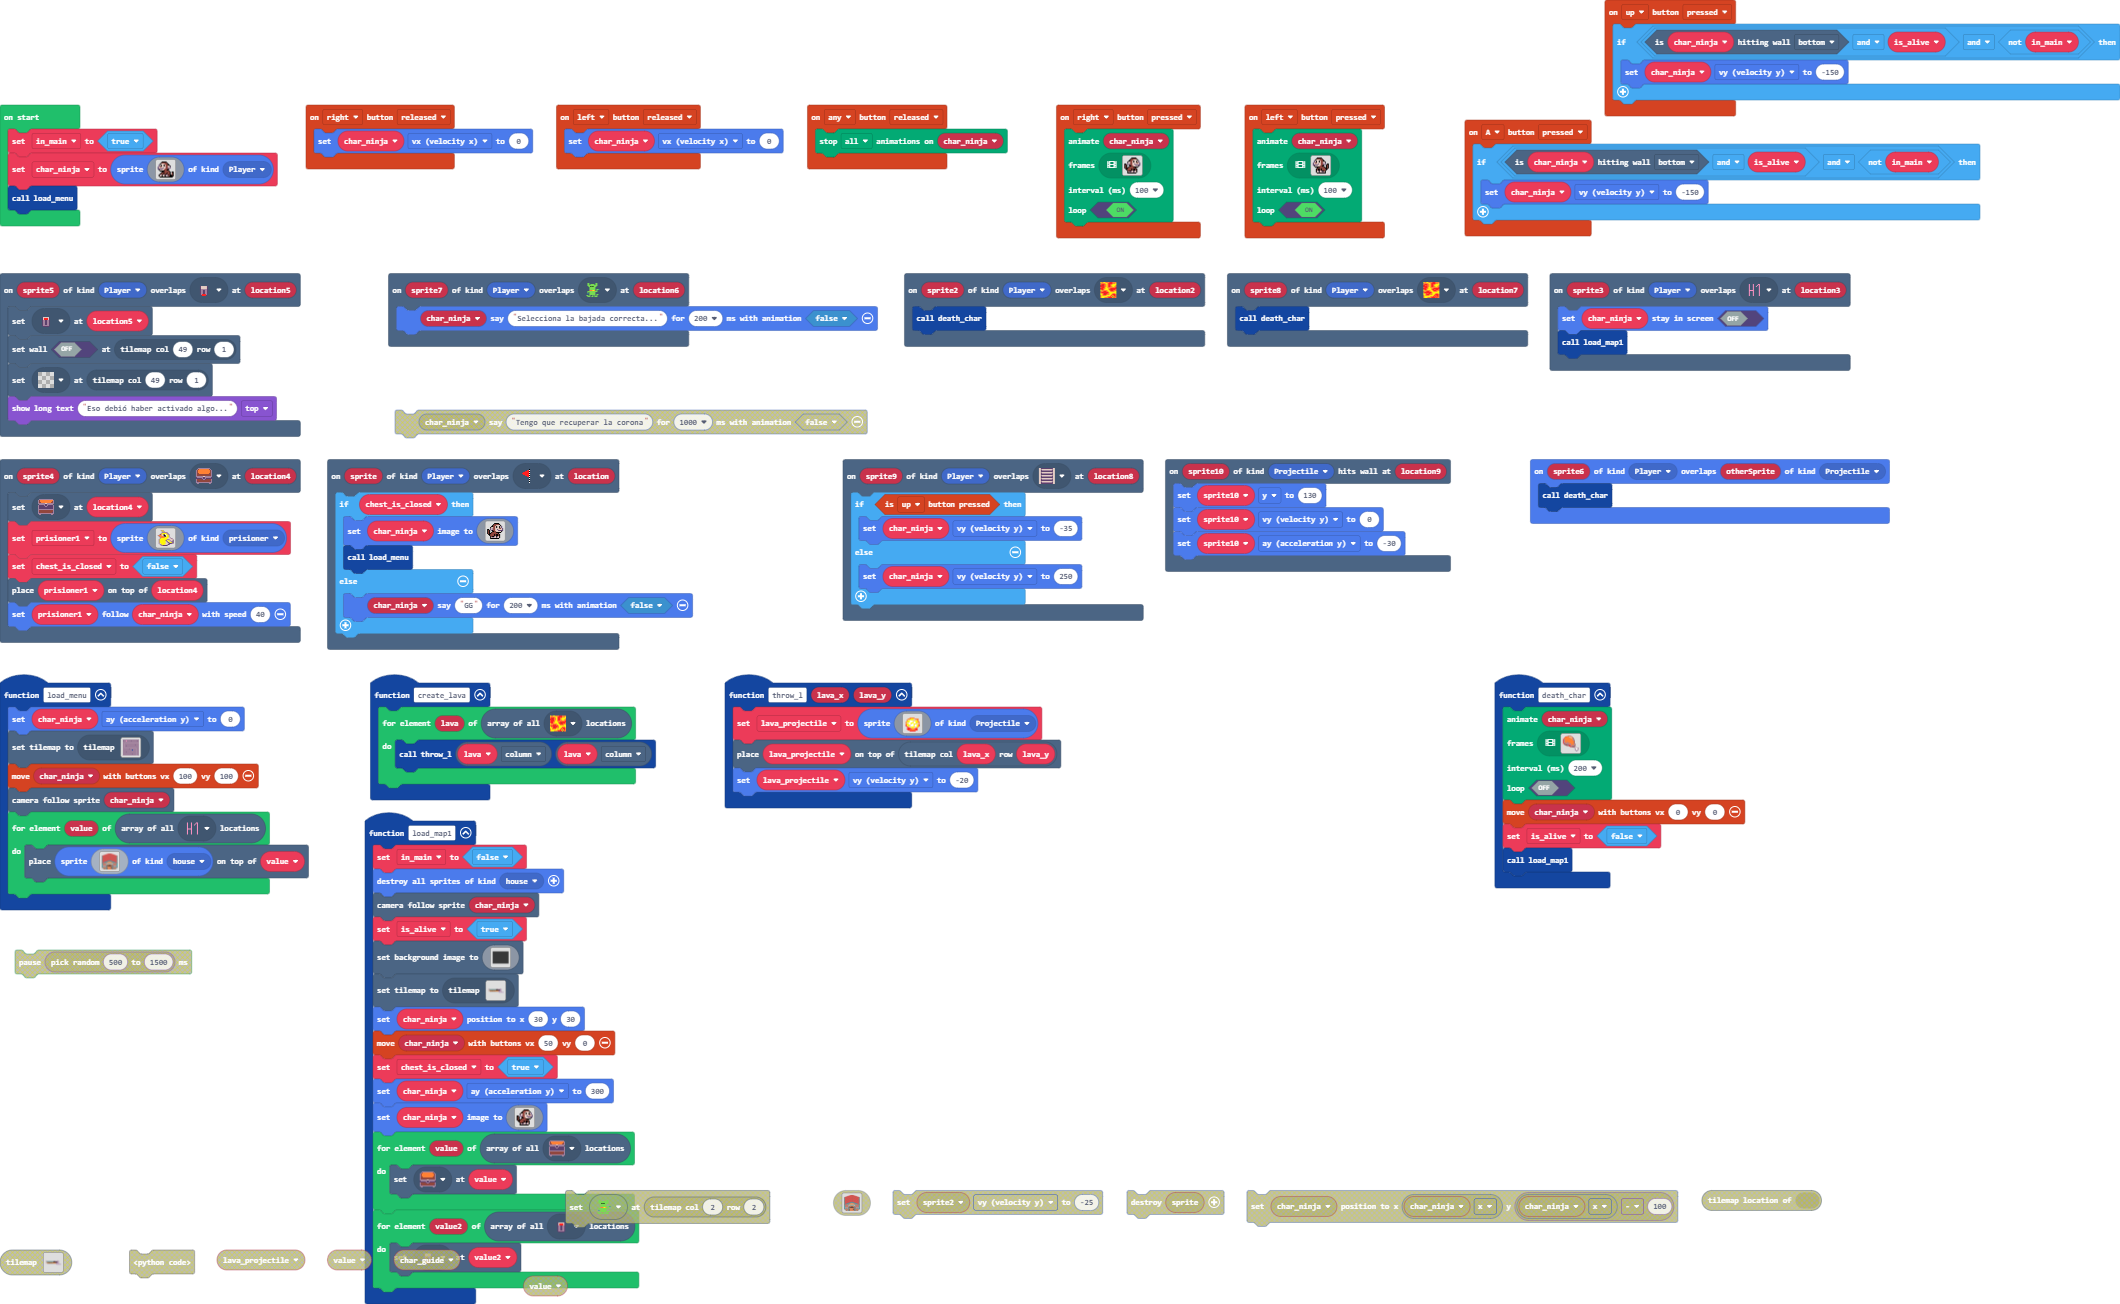
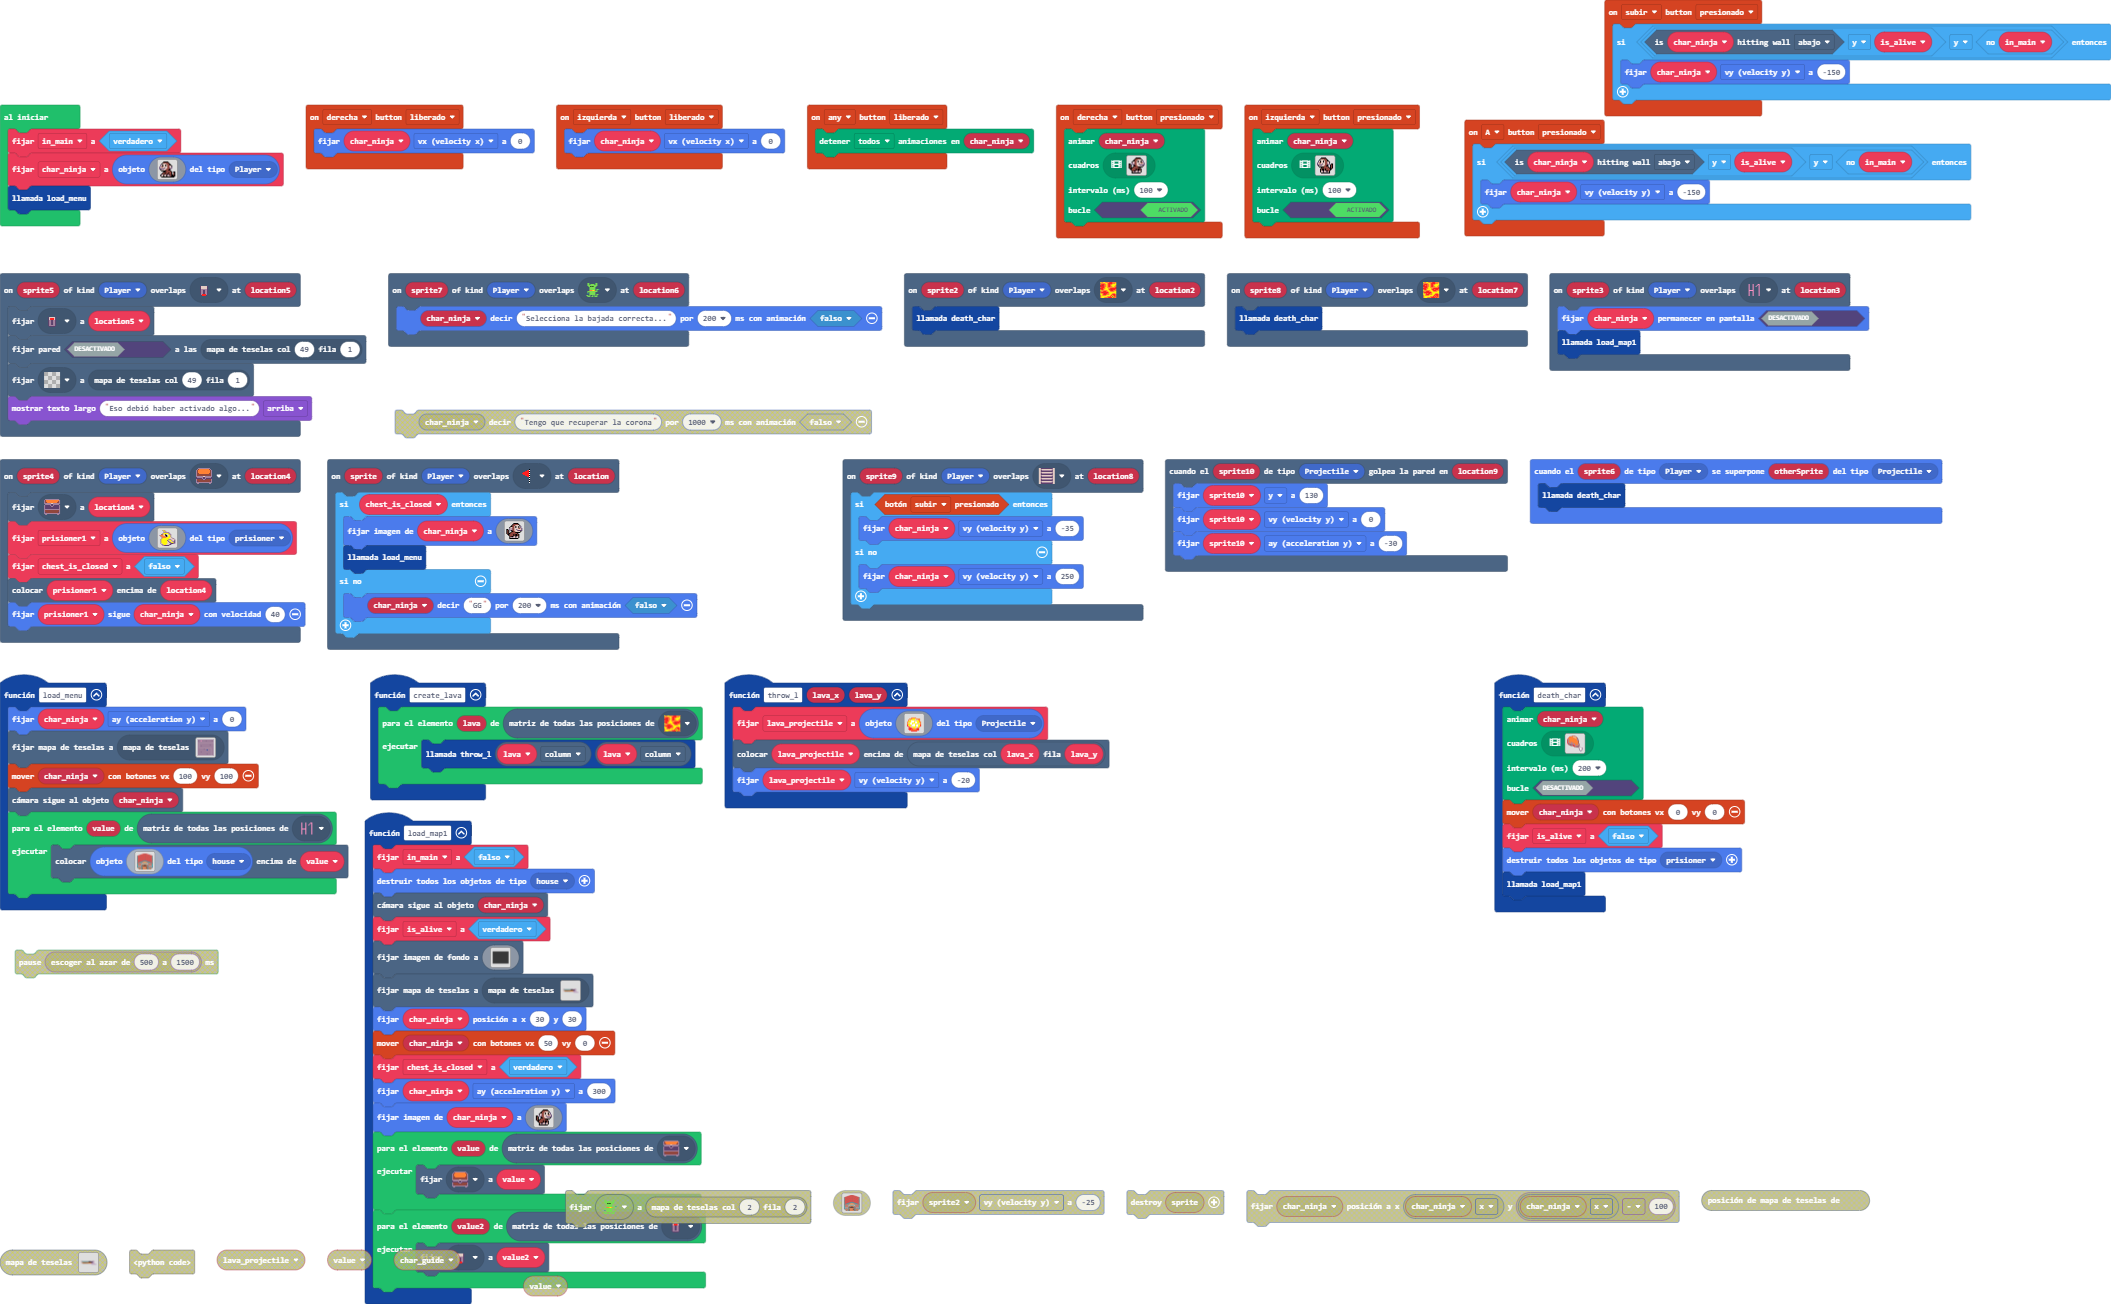
prisioner_destroy

diff --git a/main.ts b/main.ts
@@ -3,6 +3,12 @@ namespace SpriteKind {
     export const prisioner = SpriteKind.create()
     export const house = SpriteKind.create()
 }
+controller.right.onEvent(ControllerButtonEvent.Released, function () {
+    char_ninja.vx = 0
+})
+controller.left.onEvent(ControllerButtonEvent.Released, function () {
+    char_ninja.vx = 0
+})
 function death_char () {
     animation.runImageAnimation(
     char_ninja,
@@ -45,13 +51,9 @@ function death_char () {
     )
     controller.moveSprite(char_ninja, 0, 0)
     is_alive = false
+    sprites.destroyAllSpritesOfKind(SpriteKind.prisioner)
     load_map1()
 }
-controller.up.onEvent(ControllerButtonEvent.Pressed, function () {
-    if (char_ninja.isHittingTile(CollisionDirection.Bottom) && is_alive && !(in_main)) {
-        char_ninja.vy = -150
-    }
-})
 sprites.onOverlap(SpriteKind.Player, SpriteKind.Projectile, function (sprite6, otherSprite) {
     death_char()
 })
@@ -87,11 +89,6 @@ scene.onOverlapTile(SpriteKind.Player, assets.tile`ladder`, function (sprite9, l
         char_ninja.vy = 250
     }
 })
-controller.A.onEvent(ControllerButtonEvent.Pressed, function () {
-    if (char_ninja.isHittingTile(CollisionDirection.Bottom) && is_alive && !(in_main)) {
-        char_ninja.vy = -150
-    }
-})
 scene.onOverlapTile(SpriteKind.Player, assets.tile`switchDown`, function (sprite5, location5) {
     tiles.setTileAt(location5, assets.tile`switchUp0`)
     tiles.setWallAt(tiles.getTileLocation(49, 1), false)
@@ -100,108 +97,6 @@ scene.onOverlapTile(SpriteKind.Player, assets.tile`switchDown`, function (sprite
 })
 controller.anyButton.onEvent(ControllerButtonEvent.Released, function () {
     animation.stopAnimation(animation.AnimationTypes.All, char_ninja)
-})
-controller.left.onEvent(ControllerButtonEvent.Pressed, function () {
-    animation.runImageAnimation(
-    char_ninja,
-    [img`
-        . . . . f f f f f . . . . . . . 
-        . . . f e e e e e f . . . . . . 
-        . . f d d d d e e e f . . . . . 
-        . c d f d d f d e e f f . . . . 
-        . c d f d d f d e e d d f . . . 
-        c d e e d d d d e e b d c . . . 
-        c d d d d c d d e e b d c . f f 
-        c c c c c d d d e e f c . f e f 
-        . f d d d d d e e f f . . f e f 
-        . . f f f f f e e e e f . f e f 
-        . . . . f e e e e e e e f f e f 
-        . . . f e f f e f e e e e f f . 
-        . . . f e f f e f e e e e f . . 
-        . . . f d b f d b f f e f . . . 
-        . . . f d d c d d b b d f . . . 
-        . . . . f f f f f f f f f . . . 
-        `,img`
-        . . . . f f f f f . . . . . . . 
-        . . . f e e e e e f . . . . . . 
-        . . f d d d d e e e f . . . . . 
-        . c d f d d f d e e f . . . . . 
-        . c d f d d f d e e f f . . . . 
-        c d e e d d d d e e d d f . . . 
-        c d d d d c d d e e b d c . . . 
-        c c c c c d d e e e b d c . f f 
-        . f d d d d e e e f f c . f e f 
-        . f f f f f f e e e e f . f e f 
-        . f f f f e e e e e e e f f e f 
-        f d d f d d f e f e e e e f f . 
-        f d b f d b f e f e e e e f . . 
-        f f f f f f f f f f f f e f . . 
-        . . . . . . . . . f c d d f . . 
-        . . . . . . . . . . f f f f . . 
-        `,img`
-        . . . . f f f f f . . . . . . . 
-        . . . f e e e e e f . . . . . . 
-        . . f d d d d e e e f f . . . . 
-        . c d d d d d d e e d d f . . . 
-        . c d f d d f d e e b d c . . . 
-        c d d f d d f d e e b d c . f f 
-        c d e e d d d d e e f c . f e f 
-        c d d d d c d e e e f . . f e f 
-        . f c c c d e e e f f . . f e f 
-        . . f f f f f e e e e f . f e f 
-        . . . . f e e e e e e e f f f . 
-        . . f f e f e e f e e e e f . . 
-        . f e f f e e f f f e e e f . . 
-        f d d b d d c f f f f f f b f . 
-        f d d c d d d f . . f c d d f . 
-        . f f f f f f f . . . f f f . . 
-        `,img`
-        . . . . f f f f f . . . . . . . 
-        . . . f e e e e e f f f . . . . 
-        . . f d d d e e e e d d f . . . 
-        . c d d d d d e e e b d c . . . 
-        . c d d d d d d e e b d c . . . 
-        c d d f d d f d e e f c . f f . 
-        c d d f d d f d e e f . . f e f 
-        c d e e d d d d e e f . . f e f 
-        . f d d d c d e e f f . . f e f 
-        . . f f f d e e e e e f . f e f 
-        . . . . f e e e e e e e f f f . 
-        . . . . f f e e e e e b f f . . 
-        . . . f e f f e e c d d f f . . 
-        . . f d d b d d c f f f . . . . 
-        . . f d d c d d d f f . . . . . 
-        . . . f f f f f f f . . . . . . 
-        `,img`
-        . . . . f f f f f . . . . . . . 
-        . . . f e e e e e f . . . . . . 
-        . . f d d d d e e e f . . . . . 
-        . c d f d d f d e e f f . . . . 
-        . c d f d d f d e e d d f . . . 
-        c d e e d d d d e e b d c . . . 
-        c d d d d c d d e e b d c . . . 
-        c c c c c d d e e e f c . . . . 
-        . f d d d d e e e f f . . . . . 
-        . . f f f f f e e e e f . . . . 
-        . . . . f f e e e e e e f . f f 
-        . . . f e e f e e f e e f . e f 
-        . . f e e f e e f e e e f . e f 
-        . f b d f d b f b b f e f f e f 
-        . f d d f d d f d d b e f f f f 
-        . . f f f f f f f f f f f f f . 
-        `],
-    100,
-    true
-    )
-})
-controller.right.onEvent(ControllerButtonEvent.Released, function () {
-    char_ninja.vx = 0
-})
-controller.left.onEvent(ControllerButtonEvent.Released, function () {
-    char_ninja.vx = 0
-})
-scene.onOverlapTile(SpriteKind.Player, sprites.dungeon.hazardLava1, function (sprite8, location7) {
-    death_char()
 })
 controller.right.onEvent(ControllerButtonEvent.Pressed, function () {
     animation.runImageAnimation(
@@ -296,6 +191,107 @@ controller.right.onEvent(ControllerButtonEvent.Pressed, function () {
     true
     )
 })
+controller.left.onEvent(ControllerButtonEvent.Pressed, function () {
+    animation.runImageAnimation(
+    char_ninja,
+    [img`
+        . . . . f f f f f . . . . . . . 
+        . . . f e e e e e f . . . . . . 
+        . . f d d d d e e e f . . . . . 
+        . c d f d d f d e e f f . . . . 
+        . c d f d d f d e e d d f . . . 
+        c d e e d d d d e e b d c . . . 
+        c d d d d c d d e e b d c . f f 
+        c c c c c d d d e e f c . f e f 
+        . f d d d d d e e f f . . f e f 
+        . . f f f f f e e e e f . f e f 
+        . . . . f e e e e e e e f f e f 
+        . . . f e f f e f e e e e f f . 
+        . . . f e f f e f e e e e f . . 
+        . . . f d b f d b f f e f . . . 
+        . . . f d d c d d b b d f . . . 
+        . . . . f f f f f f f f f . . . 
+        `,img`
+        . . . . f f f f f . . . . . . . 
+        . . . f e e e e e f . . . . . . 
+        . . f d d d d e e e f . . . . . 
+        . c d f d d f d e e f . . . . . 
+        . c d f d d f d e e f f . . . . 
+        c d e e d d d d e e d d f . . . 
+        c d d d d c d d e e b d c . . . 
+        c c c c c d d e e e b d c . f f 
+        . f d d d d e e e f f c . f e f 
+        . f f f f f f e e e e f . f e f 
+        . f f f f e e e e e e e f f e f 
+        f d d f d d f e f e e e e f f . 
+        f d b f d b f e f e e e e f . . 
+        f f f f f f f f f f f f e f . . 
+        . . . . . . . . . f c d d f . . 
+        . . . . . . . . . . f f f f . . 
+        `,img`
+        . . . . f f f f f . . . . . . . 
+        . . . f e e e e e f . . . . . . 
+        . . f d d d d e e e f f . . . . 
+        . c d d d d d d e e d d f . . . 
+        . c d f d d f d e e b d c . . . 
+        c d d f d d f d e e b d c . f f 
+        c d e e d d d d e e f c . f e f 
+        c d d d d c d e e e f . . f e f 
+        . f c c c d e e e f f . . f e f 
+        . . f f f f f e e e e f . f e f 
+        . . . . f e e e e e e e f f f . 
+        . . f f e f e e f e e e e f . . 
+        . f e f f e e f f f e e e f . . 
+        f d d b d d c f f f f f f b f . 
+        f d d c d d d f . . f c d d f . 
+        . f f f f f f f . . . f f f . . 
+        `,img`
+        . . . . f f f f f . . . . . . . 
+        . . . f e e e e e f f f . . . . 
+        . . f d d d e e e e d d f . . . 
+        . c d d d d d e e e b d c . . . 
+        . c d d d d d d e e b d c . . . 
+        c d d f d d f d e e f c . f f . 
+        c d d f d d f d e e f . . f e f 
+        c d e e d d d d e e f . . f e f 
+        . f d d d c d e e f f . . f e f 
+        . . f f f d e e e e e f . f e f 
+        . . . . f e e e e e e e f f f . 
+        . . . . f f e e e e e b f f . . 
+        . . . f e f f e e c d d f f . . 
+        . . f d d b d d c f f f . . . . 
+        . . f d d c d d d f f . . . . . 
+        . . . f f f f f f f . . . . . . 
+        `,img`
+        . . . . f f f f f . . . . . . . 
+        . . . f e e e e e f . . . . . . 
+        . . f d d d d e e e f . . . . . 
+        . c d f d d f d e e f f . . . . 
+        . c d f d d f d e e d d f . . . 
+        c d e e d d d d e e b d c . . . 
+        c d d d d c d d e e b d c . . . 
+        c c c c c d d e e e f c . . . . 
+        . f d d d d e e e f f . . . . . 
+        . . f f f f f e e e e f . . . . 
+        . . . . f f e e e e e e f . f f 
+        . . . f e e f e e f e e f . e f 
+        . . f e e f e e f e e e f . e f 
+        . f b d f d b f b b f e f f e f 
+        . f d d f d d f d d b e f f f f 
+        . . f f f f f f f f f f f f f . 
+        `],
+    100,
+    true
+    )
+})
+scene.onOverlapTile(SpriteKind.Player, sprites.dungeon.hazardLava1, function (sprite8, location7) {
+    death_char()
+})
+controller.A.onEvent(ControllerButtonEvent.Pressed, function () {
+    if (char_ninja.isHittingTile(CollisionDirection.Bottom) && is_alive && !(in_main)) {
+        char_ninja.vy = -150
+    }
+})
 function load_map1 () {
     in_main = false
     sprites.destroyAllSpritesOfKind(SpriteKind.house)
@@ -351,6 +347,11 @@ function load_menu () {
         tiles.placeOnTile(sprites.create(assets.image`house1`, SpriteKind.house), value)
     }
 }
+controller.up.onEvent(ControllerButtonEvent.Pressed, function () {
+    if (char_ninja.isHittingTile(CollisionDirection.Bottom) && is_alive && !(in_main)) {
+        char_ninja.vy = -150
+    }
+})
 scene.onOverlapTile(SpriteKind.Player, assets.tile`lava_enemy`, function (sprite2, location2) {
     death_char()
 })

diff --git a/tilemap.g.ts b/tilemap.g.ts
@@ -1,4 +1,4 @@
-// Auto-generated code. Do not edit.
+// Código generado automáticamente. No editar.
 namespace myTiles {
     //% fixedInstance jres blockIdentity=images._tile
     export const transparency16 = image.ofBuffer(hex``);
@@ -277,7 +277,7 @@ namespace myTiles {
             case "nivel13":
[1 lines of base64/hex data omitted]
 . . 2 2 2 . . . . . . . . . . . 
-. . 2 2 2 . . . . . . . . . . . 
+. . 2 . 2 . . . . . . . . . . . 
 . . 2 . 2 . . . . . . . . . . . 
 . . . . . . . . . . . . . . . . 
 . . . . . . . . . . . . . . . . 
@@ -286,7 +286,7 @@ namespace myTiles {
 . . . . . . . . . . . . . . . . 
 . . . . . . . . . . . . . . . . 
 . . . . . . . . 2 . 2 . . . . . 
-. . . . . . . . 2 2 2 . . . . . 
+. . . . . . . . 2 . 2 . . . . . 
 . . . . . . . . 2 2 2 . . . . . 
 . . . . . . . . . . . . . . . . 
 . . . . . . . . . . . . . . . . 
@@ -327,4 +327,4 @@ namespace myTiles {
     })
 
 }
-// Auto-generated code. Do not edit.
+// Código generado automáticamente. No editar.

diff --git a/images.g.ts b/images.g.ts
@@ -1,4 +1,4 @@
-// Auto-generated code. Do not edit.
+// Código generado automáticamente. No editar.
 namespace myImages {
 
     helpers._registerFactory("image", function(name: string) {
@@ -408,4 +408,4 @@ dccaa8aa8aa8888aa8aa8a8aa8a8aa8aa8888aa8aa8aaccd
     })
 
 }
-// Auto-generated code. Do not edit.
+// Código generado automáticamente. No editar.
